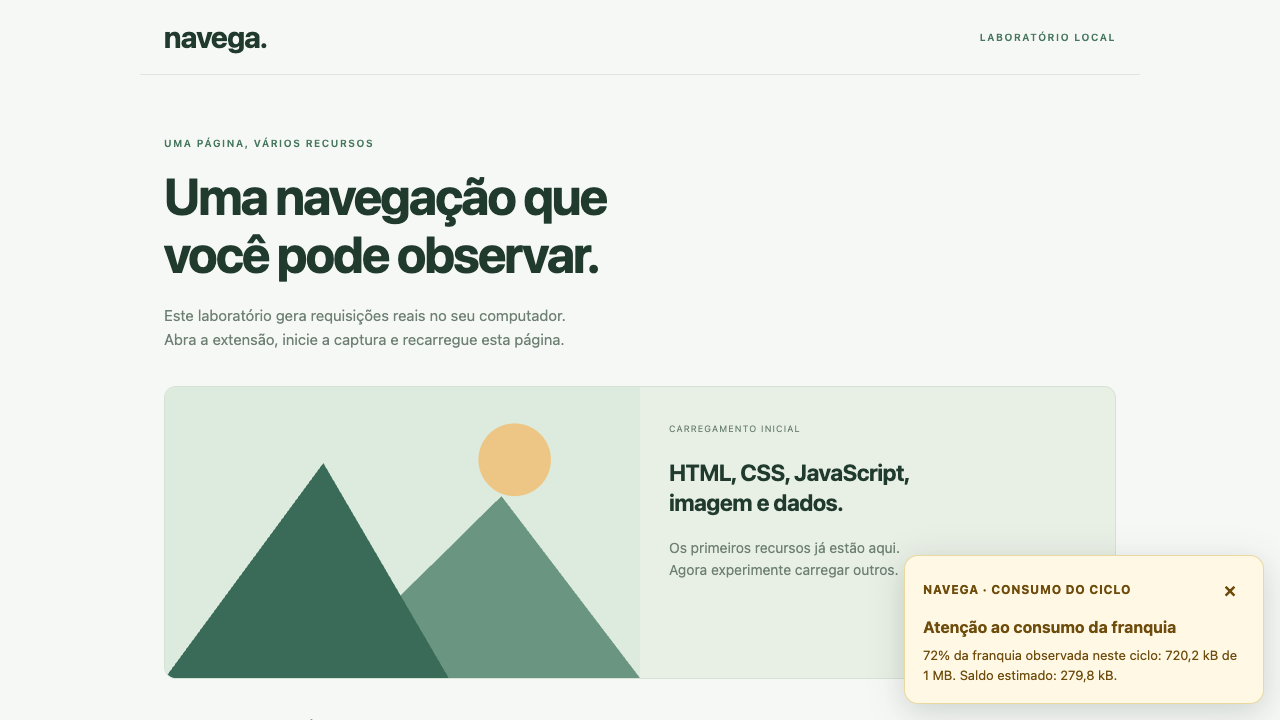
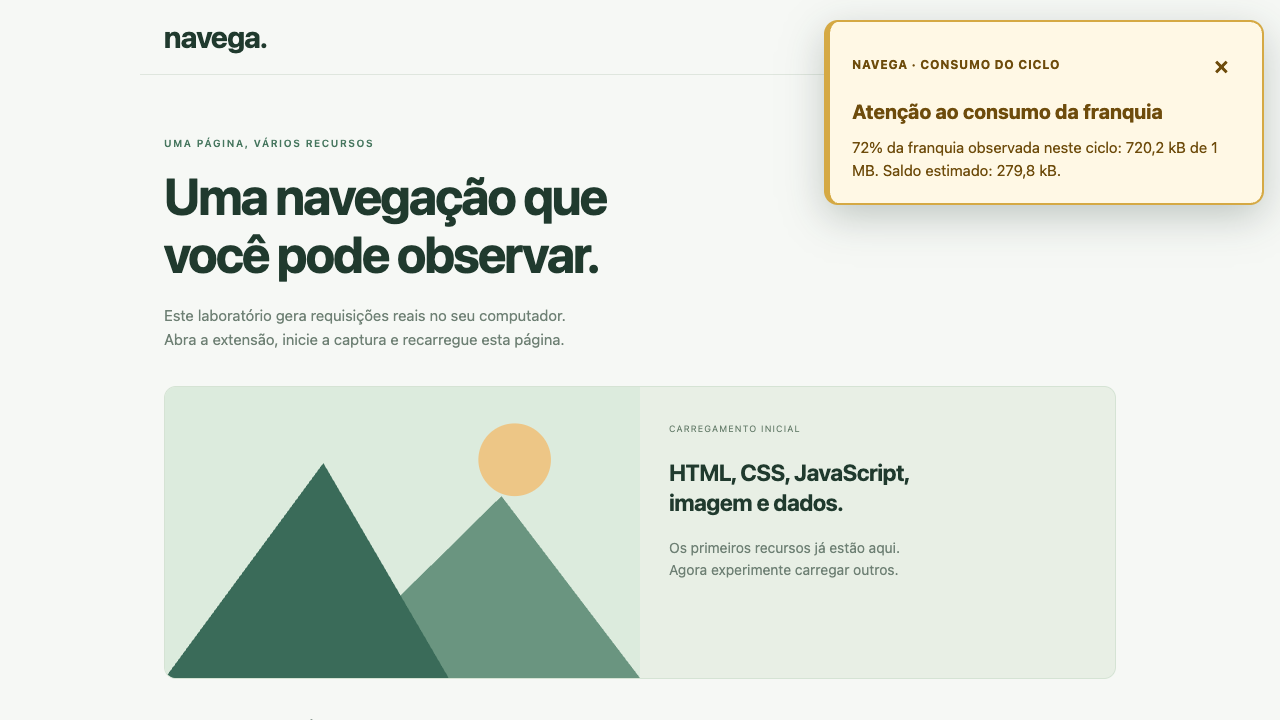
Destaca o aviso de consumo no topo da página

diff --git a/extension/effectors/page-consumption-alert.js b/extension/effectors/page-consumption-alert.js
@@ -14,9 +14,9 @@ export function renderPageConsumptionAlert(payload) {
     all: "initial",
     position: "fixed",
     right: "16px",
-    bottom: "16px",
+    top: "20px",
     "z-index": "2147483647",
-    width: "min(360px, calc(100vw - 32px))",
+    width: "min(440px, calc(100vw - 32px))",
     visibility: "visible",
     display: "block",
     "pointer-events": "auto",
@@ -27,17 +27,17 @@ export function renderPageConsumptionAlert(payload) {
   css.replaceSync(`
     :host{font:14px/1.5 system-ui,sans-serif;color:#183d33;color-scheme:light}
     *{box-sizing:border-box} [hidden]{display:none!important}
-    .card{font:14px/1.5 system-ui,sans-serif;color:#6e4c0c;padding:18px;border:1px solid #ead8a1;border-radius:14px;background:#fff8e5;box-shadow:0 8px 32px #142b2230}
-    .card.critical{background:#fff1ed;border-color:#efcbc2;color:#8e3026}
+    .card{font:16px/1.5 system-ui,sans-serif;color:#6e4c0c;padding:22px;border:2px solid #d5a944;border-left-width:6px;border-radius:14px;background:#fff8e5;box-shadow:0 12px 40px #142b2240;max-height:calc(100dvh - 40px);overflow:auto}
+    .card.critical{background:#fff1ed;border-color:#c95b4b;color:#8e3026}
     .heading{display:flex;align-items:center;justify-content:space-between;gap:12px}
     .brand{font-weight:750;font-size:12px;letter-spacing:.06em}
-    h2{font:700 16px/1.4 system-ui,sans-serif;margin:10px 0 8px}
-    p{margin:0;font-size:13px}
+    h2{font:750 20px/1.4 system-ui,sans-serif;margin:12px 0 10px}
+    p{margin:0;font-size:15px}
     button{font:600 13px/1.5 system-ui,sans-serif;cursor:pointer;border:1px solid #bfd7cb;background:#fff;color:#183d33;border-radius:8px;padding:7px 12px}
     button:focus-visible{outline:3px solid #167c69;outline-offset:3px}
-    .close{font-size:20px;line-height:1;padding:5px 8px;border-color:transparent;background:transparent;color:inherit}
-    .chip{display:block;margin-left:auto;box-shadow:0 4px 20px #142b2226;border-color:#ead8a1;background:#fff8e5;max-width:100%;white-space:normal;text-align:left}
-    .chip.critical{background:#fff1ed;border-color:#efcbc2;color:#8e3026}
+    .close{font-size:24px;line-height:1;padding:8px 10px;border-color:transparent;background:transparent;color:inherit}
+    .chip{display:block;margin-left:auto;font-size:15px;font-weight:750;padding:12px 18px;min-height:48px;box-shadow:0 8px 24px #142b2240;border:2px solid #d5a944;background:#fff8e5;max-width:100%;white-space:normal;text-align:left}
+    .chip.critical{background:#fff1ed;border-color:#c95b4b;color:#8e3026}
   `);
   root.adoptedStyleSheets = [css];
   const card = document.createElement("aside");

diff --git a/tests/alerts-browser.js b/tests/alerts-browser.js
@@ -147,6 +147,11 @@ try {
     "aviso se mantém sem painel e sem bloqueios",
   );
   await mkdir("artifacts", { recursive: true });
+  const desktopBounds = await pageNotice.boundingBox();
+  assert.ok(
+    desktopBounds.width >= 430 && desktopBounds.y <= 24,
+    "aviso maior no topo da página",
+  );
   await page.screenshot({ path: "artifacts/alerta-na-pagina.png" });
   await page.setViewportSize({ width: 390, height: 844 });
   const noticeBounds = await pageNotice.boundingBox();

diff --git a/docs/TESTE-ETAPA-3.md b/docs/TESTE-ETAPA-3.md
@@ -2,7 +2,7 @@
 
 1. Atualize o repositório, recarregue o Navega em `chrome://extensions` e reabra o painel. A nova permissão `notifications` permite avisar com o painel fechado. A atualização preserva a franquia e o consumo do ciclo já configurado.
 2. Para uma demonstração curta, configure **1 MB**, início hoje, economia automática e **Notificações de consumo no computador** ativas. Se o ciclo atual já estiver consumido, use um perfil separado de teste; limpar a captura não zera a franquia.
-3. Execute `npm run demo`, abra `http://127.0.0.1:4173`, inicie a captura e recarregue a página. Use **Consumir 100 kB de teste** até passar de 70%. O aviso deve apresentar percentual, total consumido e saldo estimado no painel e no canto inferior direito da própria página monitorada. O modo Econômico continua seguindo a mesma regra.
+3. Execute `npm run demo`, abra `http://127.0.0.1:4173`, inicie a captura e recarregue a página. Use **Consumir 100 kB de teste** até passar de 70%. O aviso deve apresentar percentual, total consumido e saldo estimado no painel e no canto superior direito da própria página monitorada. O modo Econômico continua seguindo a mesma regra.
 4. Feche e reabra o painel. O consumo e o aviso continuam; a notificação do computador não deve se repetir na mesma faixa. Clique em **Entendi**: o aviso é confirmado sem apagar consumo ou desativar a economia.
 5. Continue até 90%: aparece outro aviso. Continue até 100%: o aviso passa a **Franquia estimada atingida**. Os marcos são do sistema; o usuário não configura percentuais. Um salto direto a 100% gera somente o alerta mais alto, sem três notificações em sequência.
 6. Faça parte do consumo com o painel fechado, mantendo a captura ativa na demo. O cartão aparece na própria página ao atingir uma nova faixa, mesmo sem notificações do computador. Clique em **Recolher aviso de consumo**: fica um indicador compacto de percentual. Clique nele para consultar novamente e recarregue a página para conferir a persistência do indicador. Na faixa maior, o cartão completo aparece de novo. A extensão também solicita a notificação do Chrome. Clicar nela abre o painel. A exibição no computador depende das permissões de notificações do Chrome e do modo Foco/Não Perturbe do sistema operacional; isso não impede o aviso no painel.

diff --git a/README.md b/README.md
@@ -154,6 +154,6 @@ Confira [TESTE-ETAPA-3.md](docs/TESTE-ETAPA-3.md). Os testes cobrem fronteiras d
 
 ### Aviso sobre a própria página (0.8.0)
 
-Com a captura ativa, os alertas aparecem no canto inferior direito da aba HTTP(S) monitorada. Não é necessário abrir ou expandir o painel, nem habilitar notificações do sistema operacional. Em 70%, 90% e 100%, o cartão apresenta consumo e saldo estimado. **Recolher aviso de consumo** confirma aquela faixa e mantém um indicador compacto com o percentual. Clique no indicador para consultar novamente; uma faixa maior abre o cartão automaticamente.
+Com a captura ativa, os alertas aparecem no canto superior direito da aba HTTP(S) monitorada. Não é necessário abrir ou expandir o painel, nem habilitar notificações do sistema operacional. Em 70%, 90% e 100%, o cartão apresenta consumo e saldo estimado. **Recolher aviso de consumo** confirma aquela faixa e mantém um indicador compacto com o percentual. Clique no indicador para consultar novamente; uma faixa maior abre o cartão automaticamente.
 
 O indicador acompanha a aba monitorada e reaparece após recarregar, respeitando confirmações do ciclo. Encerrar a captura, renovar o ciclo ou ficar abaixo de 70% remove o aviso da página. Ao sair da aba, o aviso é removido dela. A apresentação é feita em Shadow DOM de um mundo isolado CDP, sem requisições adicionais ou novas permissões de acesso. Páginas internas/protegidas do Chrome continuam fora da captura. Não usa janelas modais que interrompem a navegação.
